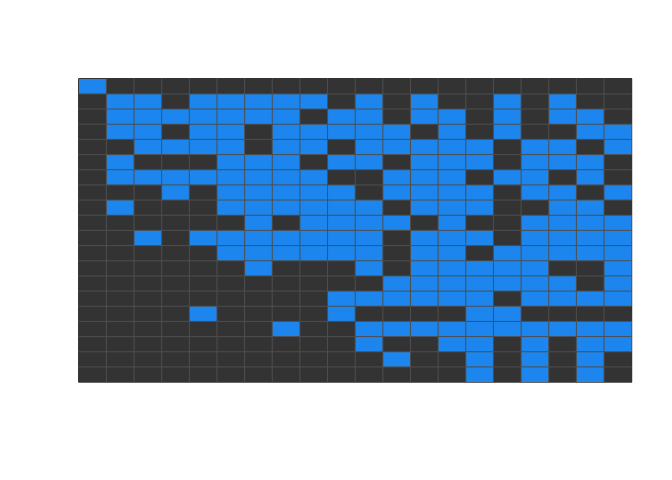
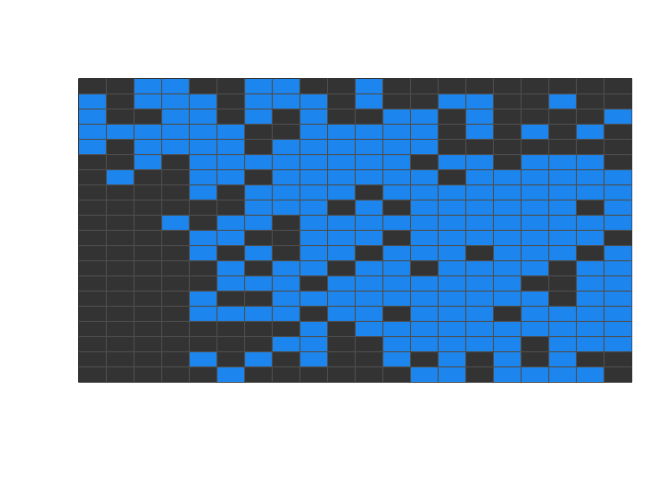
:memo: add Li to readme

Changed region(s): [[0.0938, 0.1562, 0.9375, 0.8125]]

diff --git a/README.md b/README.md
@@ -77,7 +77,6 @@ and
 This model is coded in stan and is called using `yeakel_stan()`:
 
 ``` r
-library(hattian)
 # create community
 S <- 20
 m <- sort(runif(S, 1, 1e2))
@@ -127,7 +126,121 @@ par(oldpar)
 
 ## Variable niche width model (Li et al., 2023)
 
-In this model,
+This model is a conceptual variation of the Yeakel (2014) model. In
+Yeakel’s model, the relative optimal prey size is constant for all
+predators, with niche width determined by the parameter `a3`. In Li’s
+model, instead, the optimal prey size
+(![\\mu\_j](https://latex.codecogs.com/png.image?%5Cdpi%7B110%7D&space;%5Cbg_white&space;%5Cmu_j
+"\\mu_j")) and niche width
+![\\sigma\_j](https://latex.codecogs.com/png.image?%5Cdpi%7B110%7D&space;%5Cbg_white&space;%5Csigma_j
+"\\sigma_j") of a predator
+![j](https://latex.codecogs.com/png.image?%5Cdpi%7B110%7D&space;%5Cbg_white&space;j
+"j") scale allometrically with predators’ size. Specifically, for a
+predator
+![j](https://latex.codecogs.com/png.image?%5Cdpi%7B110%7D&space;%5Cbg_white&space;j
+"j"), its optimal size prey is:   
+![
+\\mu\_j = \\alpha\_0 + \\alpha\_1 log\_{10}(m\_j)
+](https://latex.codecogs.com/png.image?%5Cdpi%7B110%7D&space;%5Cbg_white&space;%0A%5Cmu_j%20%3D%20%5Calpha_0%20%2B%20%5Calpha_1%20log_%7B10%7D%28m_j%29%0A
+"
+\\mu_j = \\alpha_0 + \\alpha_1 log_{10}(m_j)
+")  
+its niche width is:   
+![
+\\sigma\_j = exp(\\beta\_0 + \\beta\_1 log\_{10}(m\_j))
+](https://latex.codecogs.com/png.image?%5Cdpi%7B110%7D&space;%5Cbg_white&space;%0A%5Csigma_j%20%3D%20exp%28%5Cbeta_0%20%2B%20%5Cbeta_1%20log_%7B10%7D%28m_j%29%29%0A
+"
+\\sigma_j = exp(\\beta_0 + \\beta_1 log_{10}(m_j))
+")  
+and the maximum probability of interaction is:   
+![
+\\theta\_j = logit^{-1}(\\gamma\_0 + \\gamma\_1 log\_{10}(m\_j))
+](https://latex.codecogs.com/png.image?%5Cdpi%7B110%7D&space;%5Cbg_white&space;%0A%5Ctheta_j%20%3D%20logit%5E%7B-1%7D%28%5Cgamma_0%20%2B%20%5Cgamma_1%20log_%7B10%7D%28m_j%29%29%0A
+"
+\\theta_j = logit^{-1}(\\gamma_0 + \\gamma_1 log_{10}(m_j))
+")  
+The probability of interaction is then calculated as:   
+![
+P(A\_{ij} = 1) = \\theta\_j exp( - \\frac{(log\_{10}(m\_j/m\_i) -
+\\mu\_j)^2}{2\\sigma\_j^2} )
+](https://latex.codecogs.com/png.image?%5Cdpi%7B110%7D&space;%5Cbg_white&space;%0AP%28A_%7Bij%7D%20%3D%201%29%20%3D%20%5Ctheta_j%20exp%28%20-%20%5Cfrac%7B%28log_%7B10%7D%28m_j%2Fm_i%29%20-%20%5Cmu_j%29%5E2%7D%7B2%5Csigma_j%5E2%7D%20%29%0A
+"
+P(A_{ij} = 1) = \\theta_j exp( - \\frac{(log_{10}(m_j/m_i) - \\mu_j)^2}{2\\sigma_j^2} )
+")  
+
+``` r
+# create community
+S <- 20
+m <- sort(runif(S, 1, 1e2))
+fw <- matrix(NA, nrow = S, ncol = S)
+
+# set parameters
+alpha0 <- -3
+alpha1 <- 2
+beta0 <- -3
+beta1 <- 0.5
+gamma0 <- 0.1
+gamma1 <- -0.1
+
+# create web accordingly
+for (j in seq_along(m)) {
+  mu <- alpha0 + alpha1 * log10(m[j])
+  sigma <- exp(beta0 + beta1 * log10(m[j]))
+  theta <- exp( (gamma0 + gamma1 * log10(m[j])) / (1 + gamma0 + gamma1 * log10(m[j])) )
+  fw[, j] <- theta * exp( - ( (log10(m[j] / m) - mu)^2 / 2 / sigma^2 ) )
+}
+
+# sample probabilities
+fw <- rbinom(length(fw), 1, fw)
+fw <- matrix(fw, nrow = S, ncol = S)
+show_web(fw)
+```
+
+<img src="man/figures/README-li-1.png" width="100%" />
+
+``` r
+
+# fit model
+fit_li <- li_stan(
+  fw, m,
+  warmup = 250, iter = 500, #to speed up vignette
+  cores = 4, refresh = 250
+)
+#> Warning: There were 140 divergent transitions after warmup. See
+#> https://mc-stan.org/misc/warnings.html#divergent-transitions-after-warmup
+#> to find out why this is a problem and how to eliminate them.
+#> Warning: Examine the pairs() plot to diagnose sampling problems
+#> Warning: The largest R-hat is 1.05, indicating chains have not mixed.
+#> Running the chains for more iterations may help. See
+#> https://mc-stan.org/misc/warnings.html#r-hat
+#> Warning: Bulk Effective Samples Size (ESS) is too low, indicating posterior means and medians may be unreliable.
+#> Running the chains for more iterations may help. See
+#> https://mc-stan.org/misc/warnings.html#bulk-ess
+#> Warning: Tail Effective Samples Size (ESS) is too low, indicating posterior variances and tail quantiles may be unreliable.
+#> Running the chains for more iterations may help. See
+#> https://mc-stan.org/misc/warnings.html#tail-ess
+pars <- c(
+  "alpha0", "alpha1",
+  "beta0", "beta1",
+  "gamma0", "gamma1"
+)
+posterior <- rstan::extract(fit_li, pars)
+oldpar <- par(no.readonly = TRUE)
+par(mfrow = c(3, 2), mar = c(4, 4, 2, 2))
+for (i in seq_along(posterior)) {
+  plot(
+    density(posterior[[i]]),
+    main = names(posterior)[i],
+    xlab = "Posterior"
+  )
+}
+```
+
+<img src="man/figures/README-li-2.png" width="100%" />
+
+``` r
+par(oldpar)
+```
 
 # References
 
